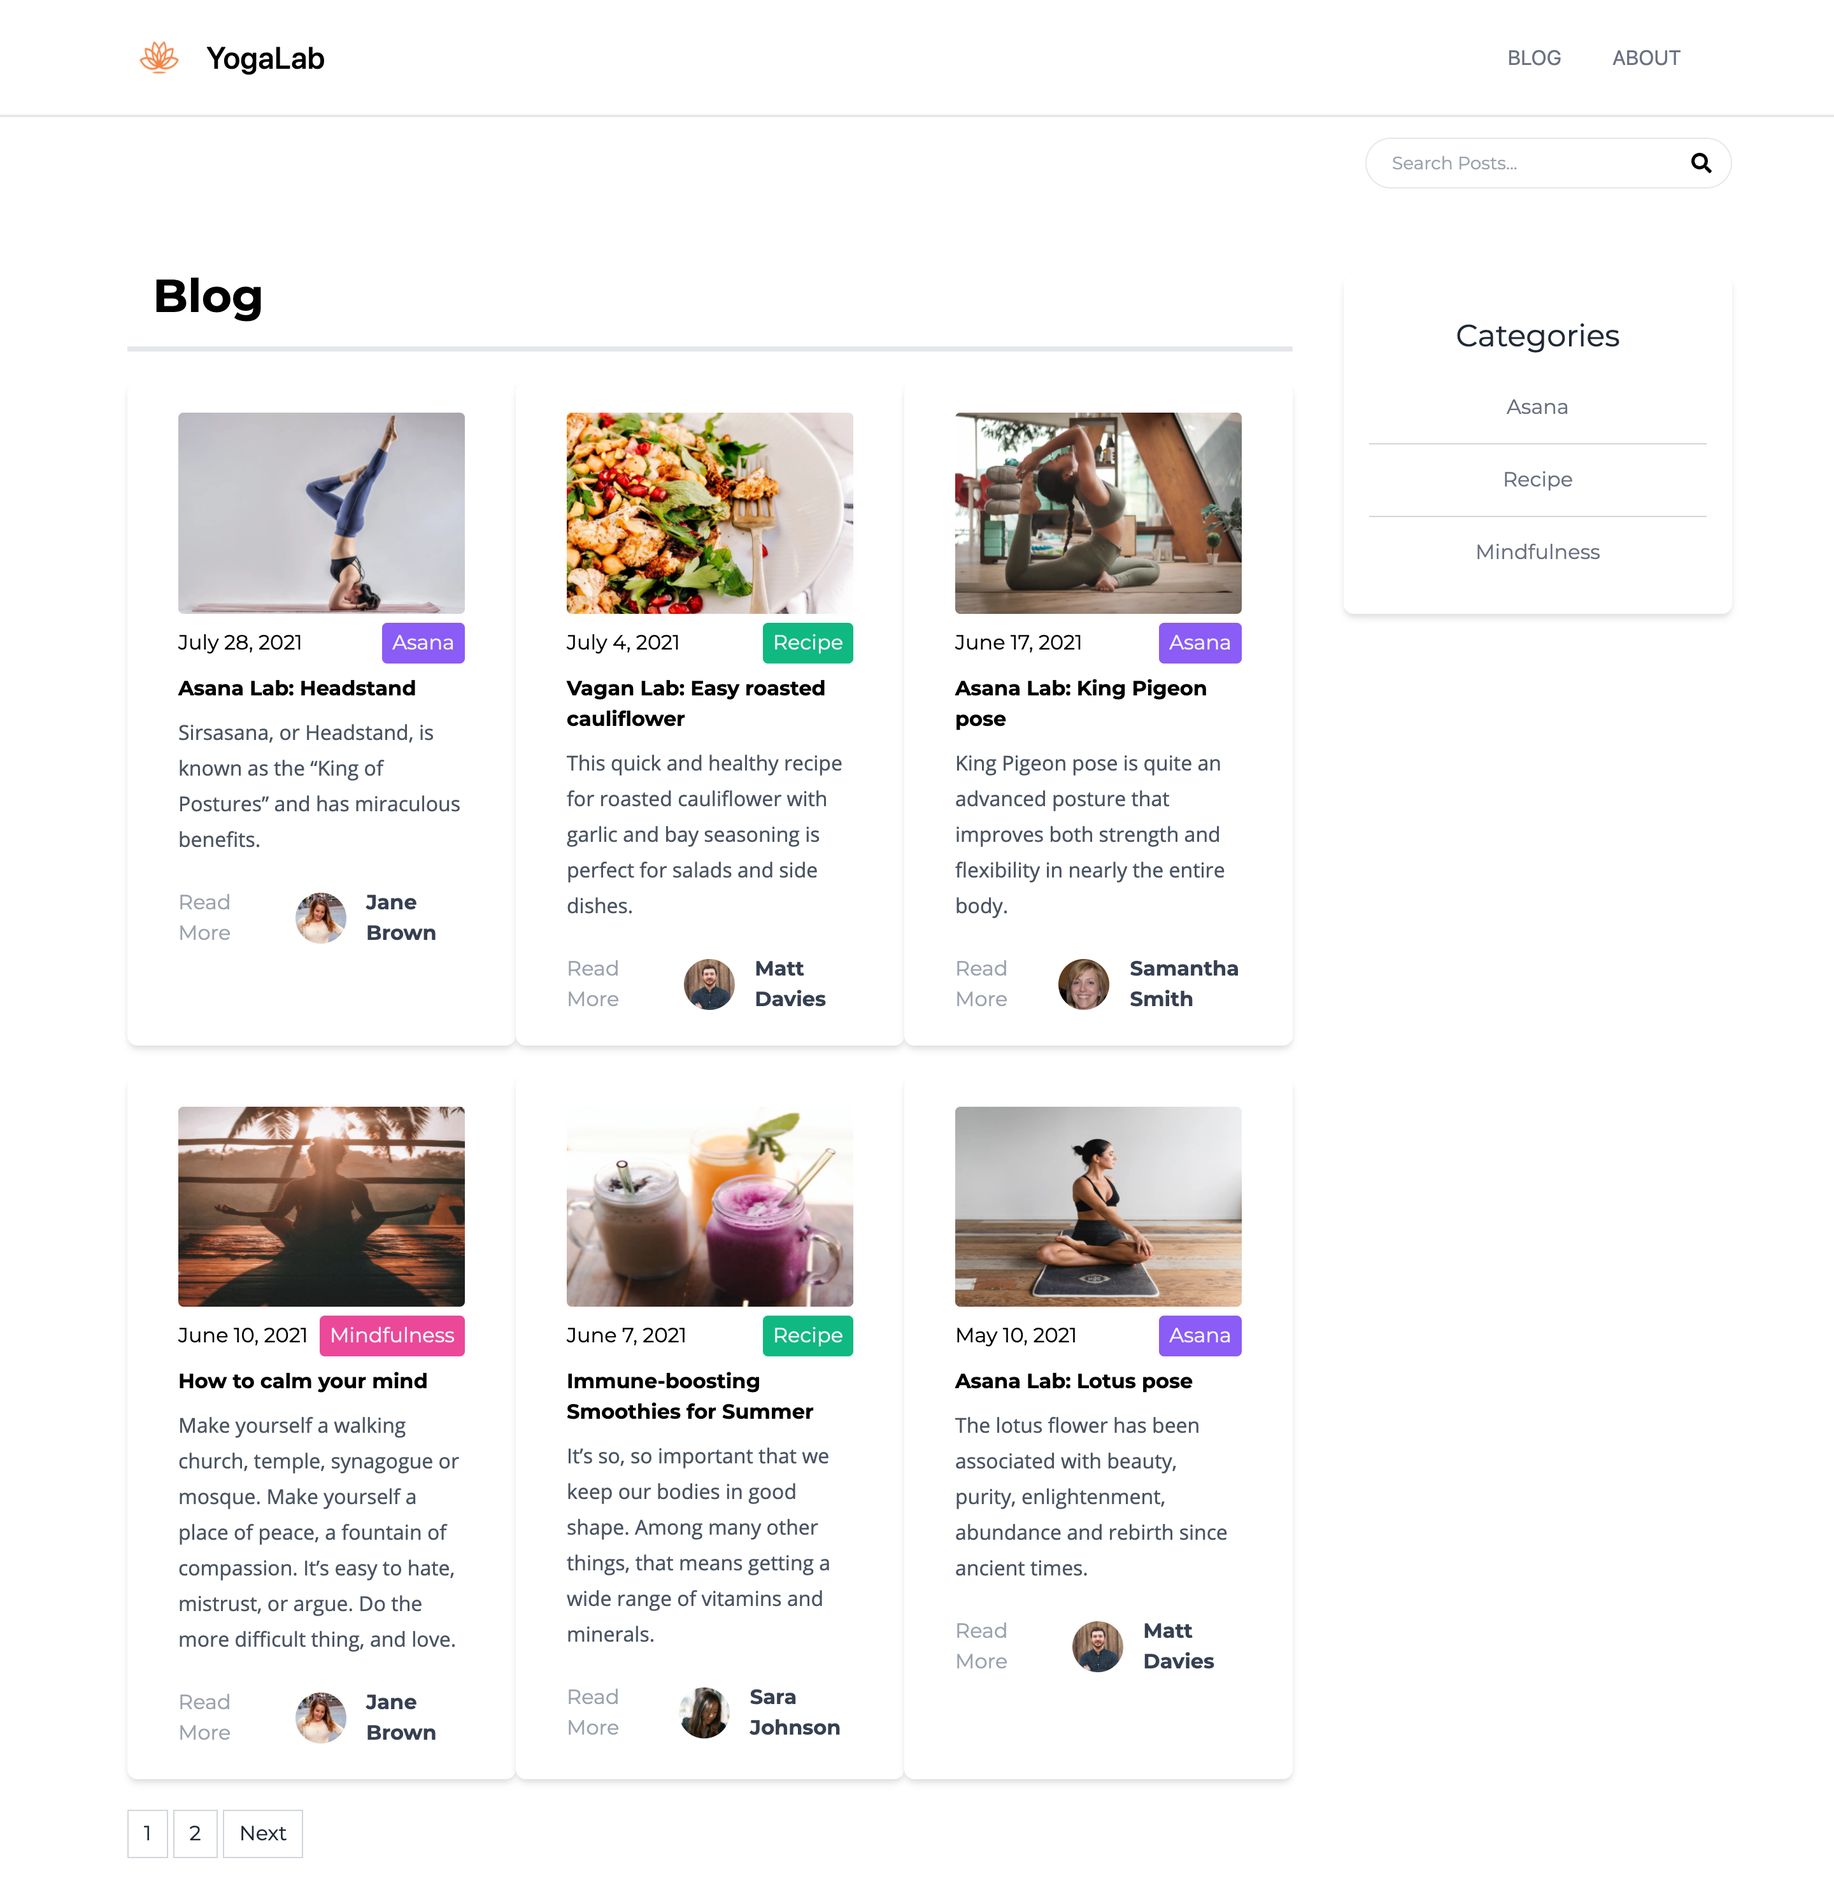
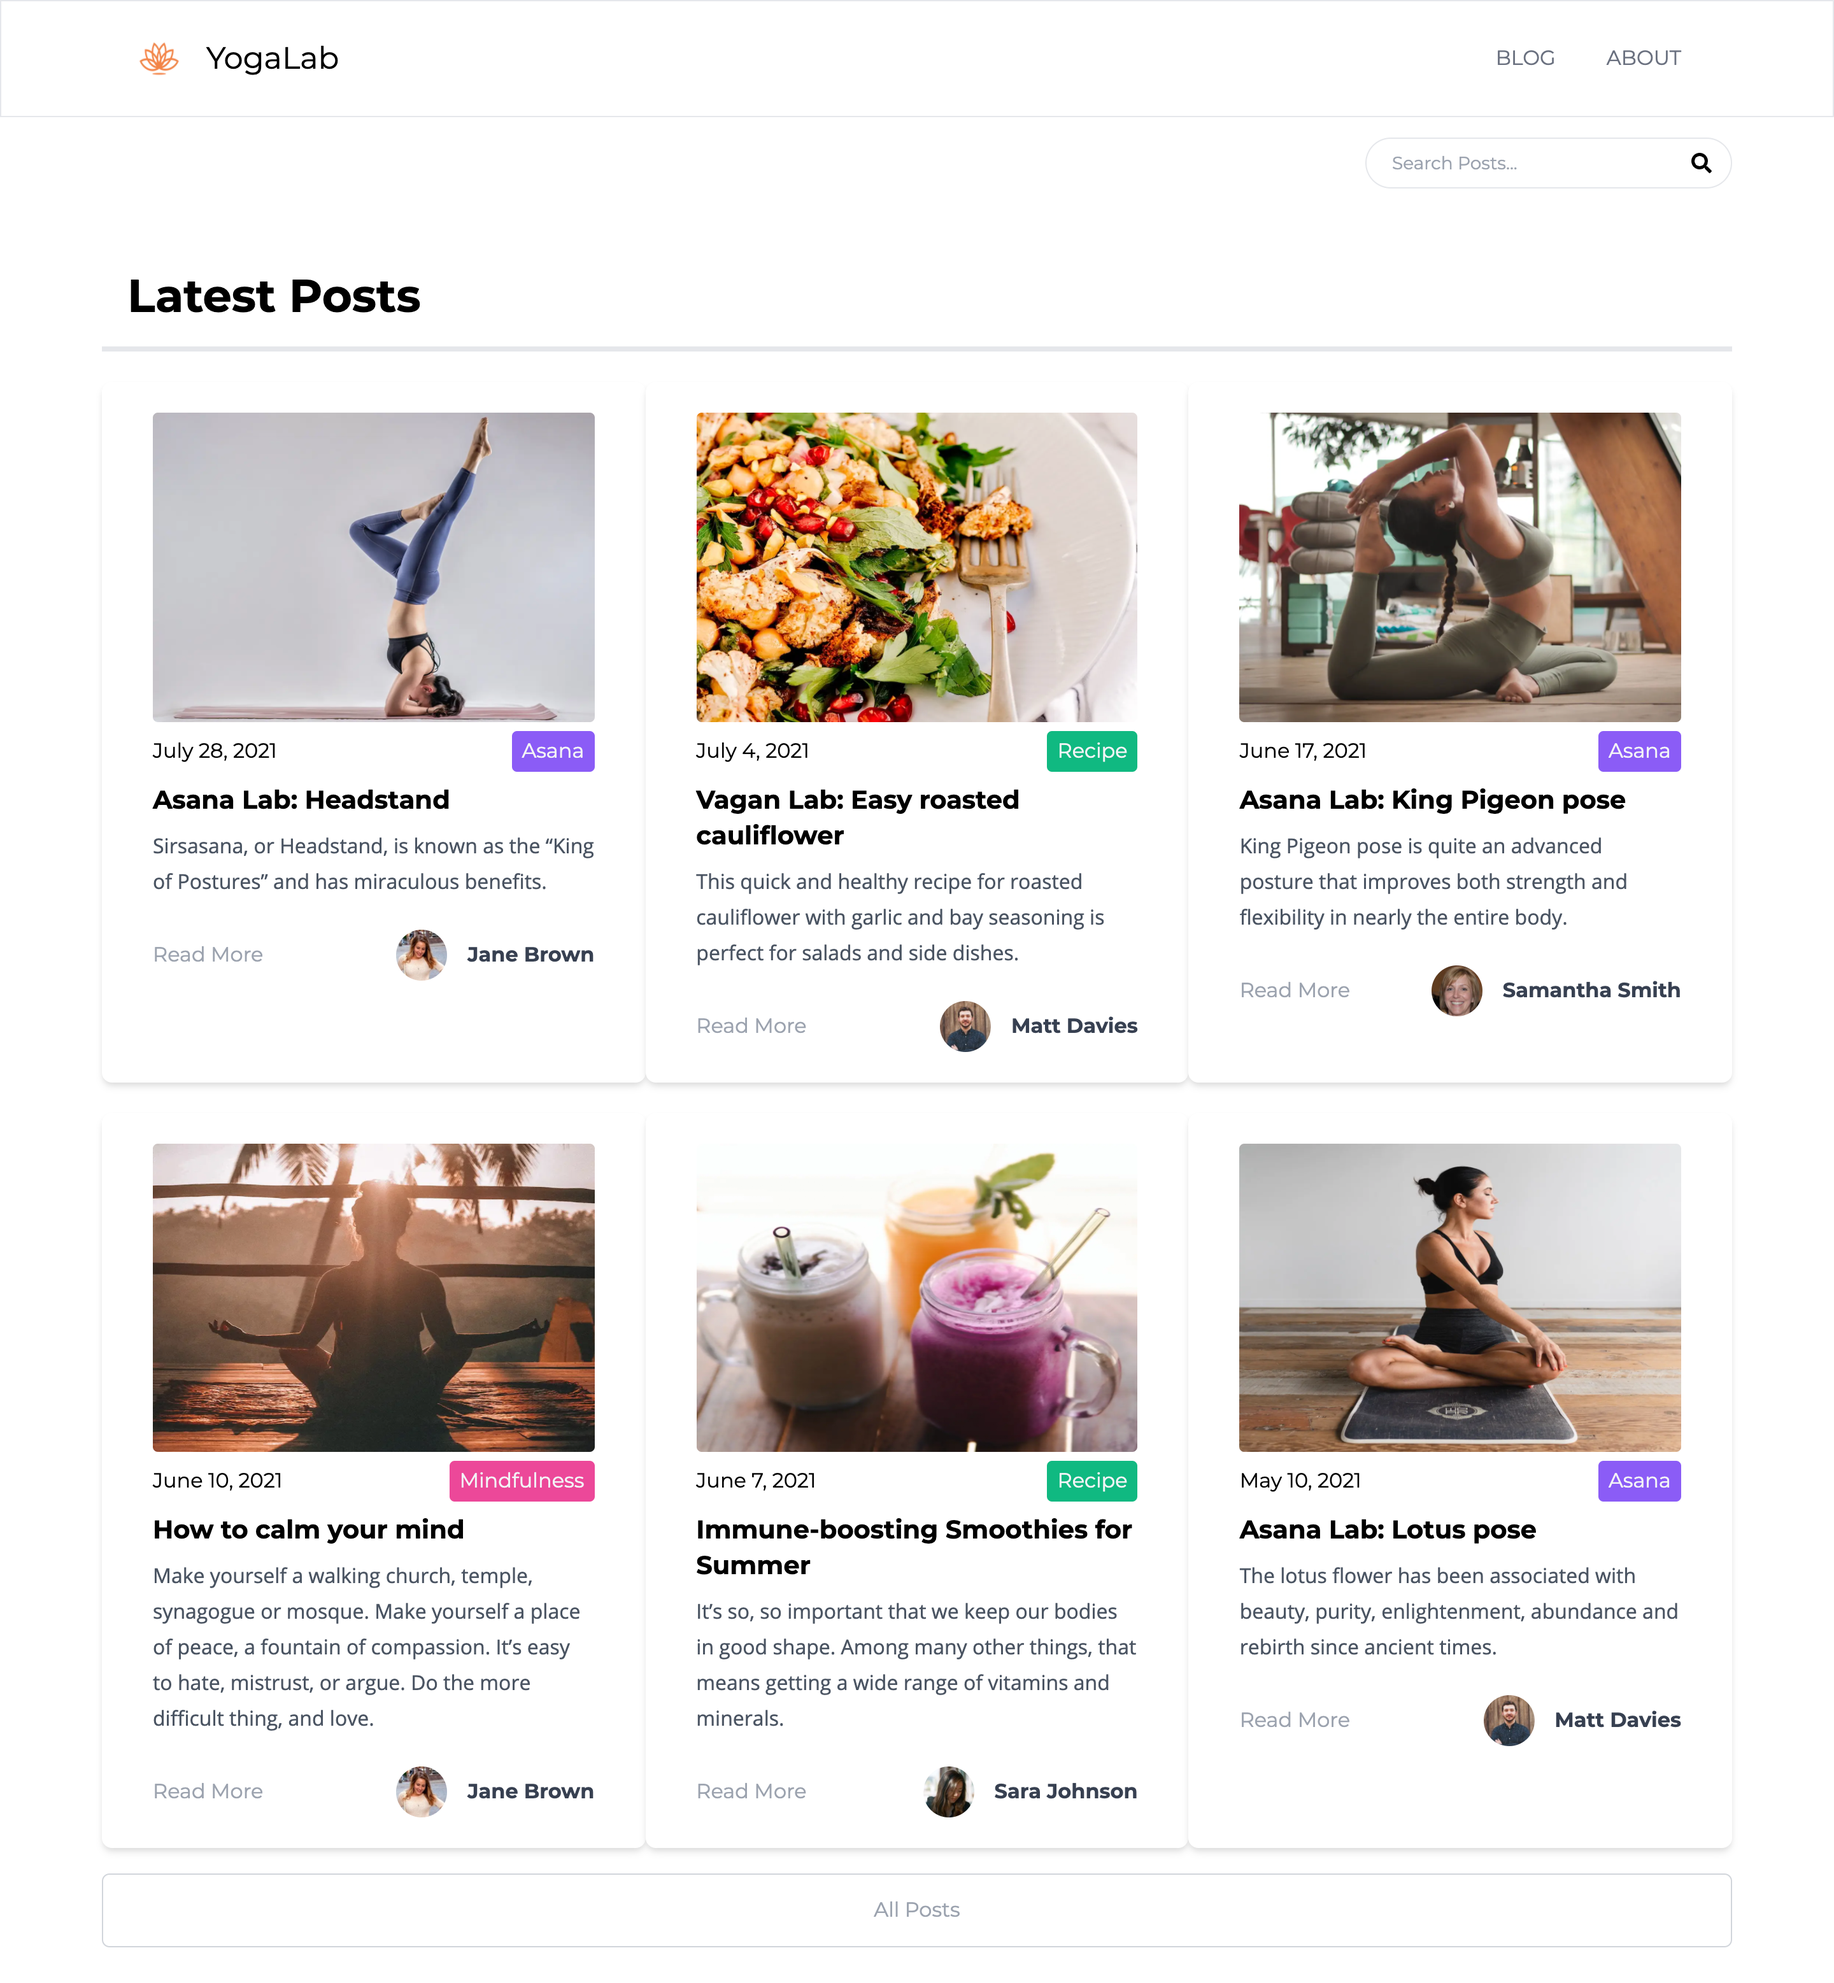
changed screenshot and fixed title font

diff --git a/components/Header.js b/components/Header.js
@@ -3,7 +3,7 @@ import Image from "next/image";
 
 export default function Header() {
   return (
-    <header className="font-sans ... border-b-2">
+    <header className="border">
       <div className="container mx-auto flex flex-wrap p-5 flex-col md:flex-row items-center">
         <Link href="/">
           <a className="flex md:w-1/5 title-font font-medium items-center md:justify-start mb-4 md:mb-0">

diff --git a/components/Post.js b/components/Post.js
@@ -21,7 +21,7 @@ export default function Post({ post, compact }) {
       </div>
       <div className="mt-2">
         <Link href={`/blog/${post.slug}`}>
-          <a className="text-wxl text gray-700 font-extrabold hover:underline">
+          <a className="text-xl text gray-700 font-extrabold hover:underline">
             {post.frontmatter.title}
           </a>
         </Link>
